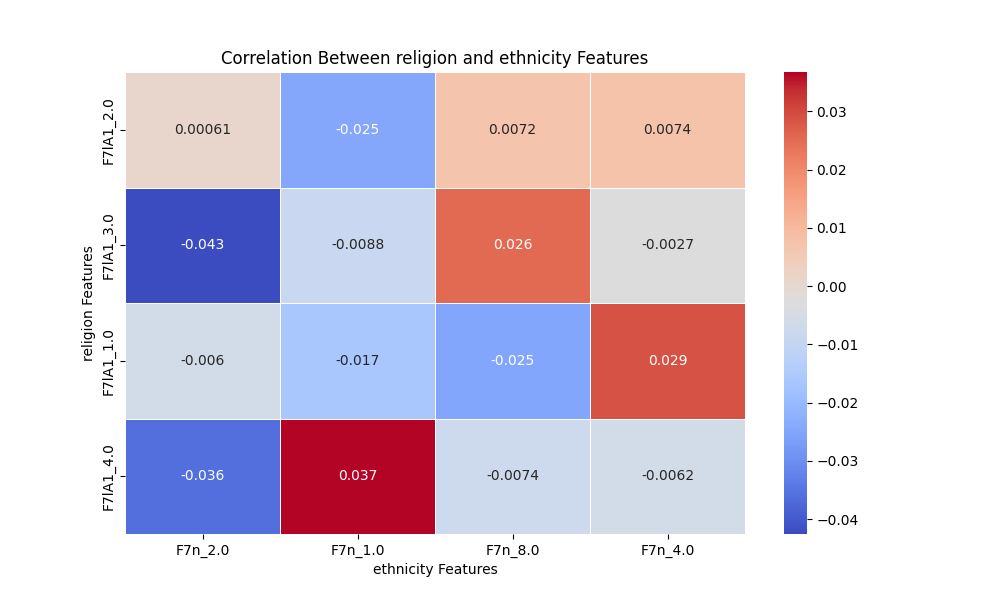
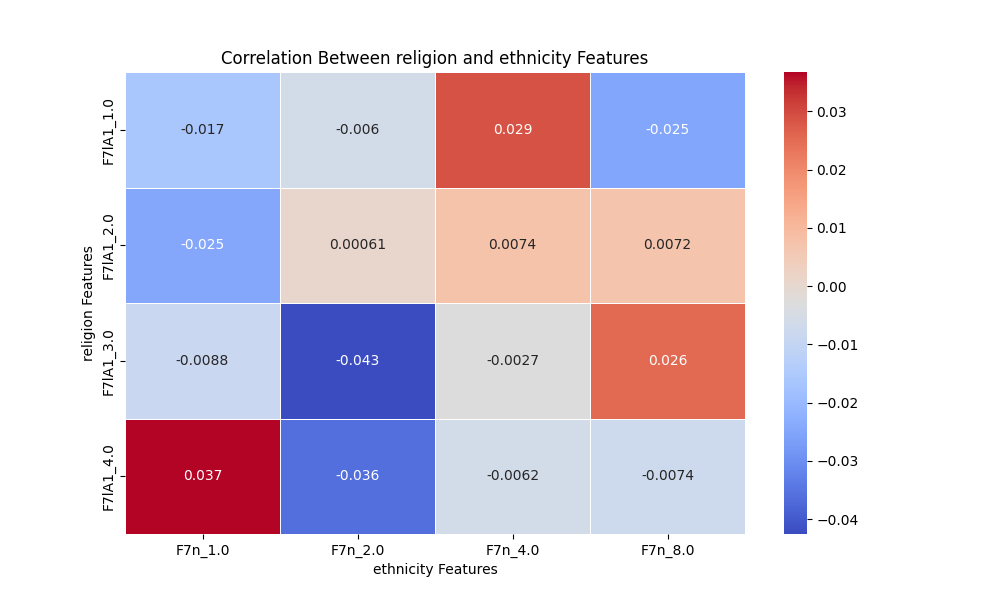
Edit arrangement of groups

diff --git a/src/research_case_agent_modeling/groups_inspection.py b/src/research_case_agent_modeling/groups_inspection.py
@@ -7,8 +7,8 @@ data_path = "/home/rocdam/Research_Case_Agent_Modeling/data/1_preprocess/8_df_da
 data = pd.read_csv(data_path, delimiter=',')
 
 
-religion = ['F7lA1_2.0', 'F7lA1_3.0', 'F7lA1_1.0', 'F7lA1_4.0']
-ethnicity = ['F7n_2.0', 'F7n_1.0', 'F7n_8.0', 'F7n_4.0']
+religion = ['F7lA1_1.0', 'F7lA1_2.0', 'F7lA1_3.0', 'F7lA1_4.0']
+ethnicity = ['F7n_1.0', 'F7n_2.0', 'F7n_4.0', 'F7n_8.0']
 
 correlation_matrix = pd.DataFrame(index=religion, columns=ethnicity)
 
